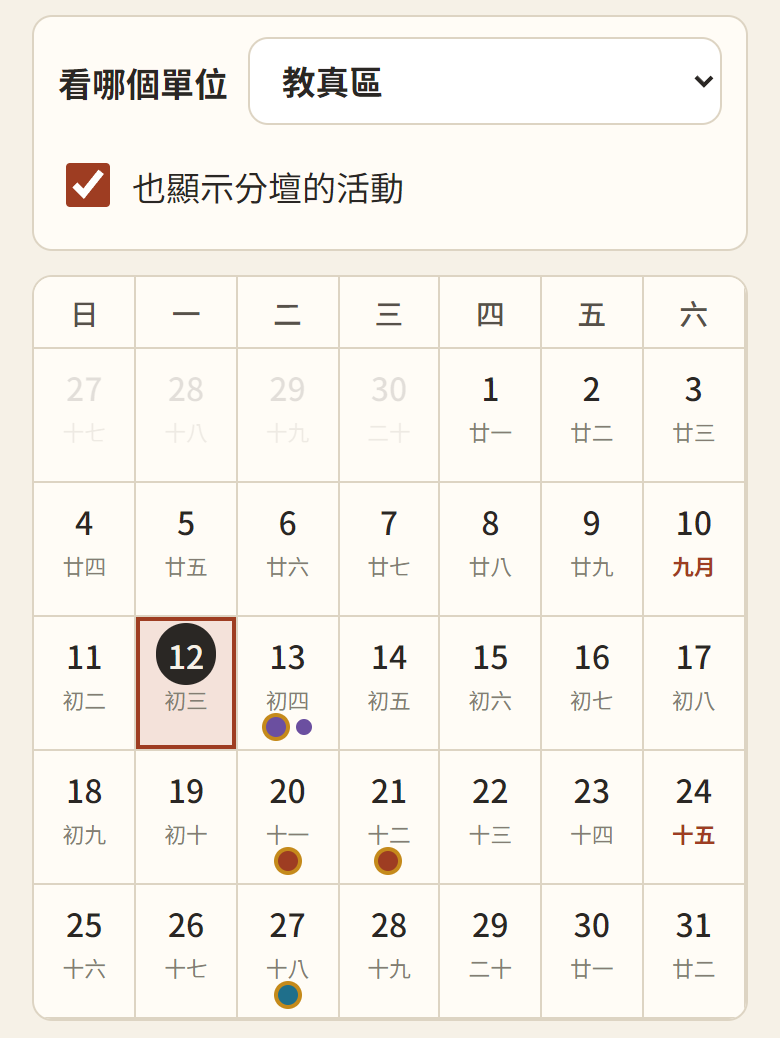
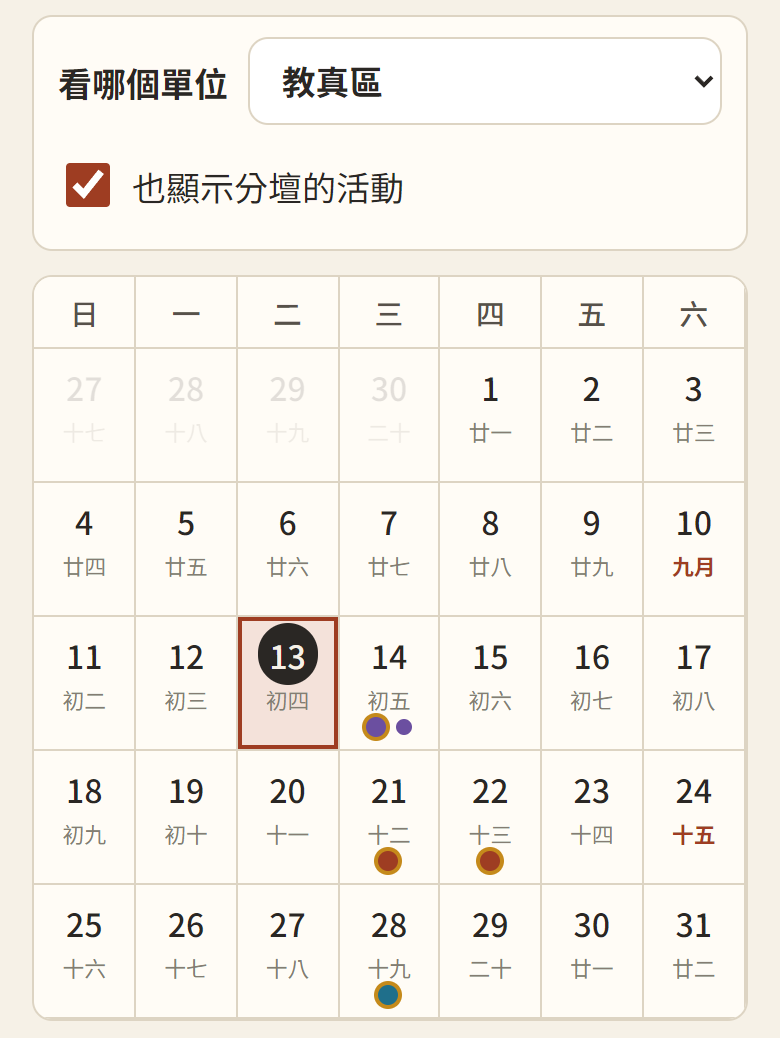
行事曆拿掉「全部」：預設只看分壇的活動，區的活動要選那一區才看得到

diff --git a/js/calendar.js b/js/calendar.js
@@ -1,6 +1,6 @@
 // 行事曆首頁（沿用教全區的看法）：年／月檢視用 FullCalendar，週、近期是自製的直向列表。
 // 格子顯示國曆、農曆與色點（顏色依類別；分壇的活動外面多一圈金框）；點日期在下方列出當天活動卡片。
-// 上方的單位篩選：全部／分壇／某一區；選某一區時可以勾「也顯示分壇的活動」。
+// 上方的單位篩選：分壇（預設，只看分壇的）／某一區；選某一區時可以勾「也顯示分壇的活動」。沒有「全部」。
 (function () {
   'use strict';
 
@@ -19,7 +19,7 @@
     loading: true, // 載入中不顯示舊區間的資料，避免誤判「沒有活動」
     pendingScroll: null, // 年檢視載入完成後要捲到的月份
     showPast: false, // 年檢視是否顯示今年已過的月份（每次開啟預設收起）
-    unit: readKey('unit', '全部'), // 全部／分壇／某一區
+    unit: readKey('unit', window.SITE.fentan), // 分壇／某一區
     withFentan: readKey('with-fentan', '1') !== '0' // 選某一區時，也顯示分壇的活動
   };
   const windows = new Map(); // 年份 → { data, fresh, promise }
@@ -86,9 +86,9 @@
   // ---------- 單位篩選 ----------
 
   function initUnitFilter() {
-    const opts = ['全部', window.SITE.fentan].concat(window.SITE.units);
-    if (opts.indexOf(state.unit) === -1) state.unit = '全部';
-    el.unit.innerHTML = opts.map((u) => `<option value="${Fmt.esc(u)}">${Fmt.esc(u === window.SITE.fentan ? '分壇的活動' : u === '全部' ? '全部（分壇＋16 區）' : u)}</option>`).join('');
+    const opts = [window.SITE.fentan].concat(window.SITE.units);
+    if (opts.indexOf(state.unit) === -1) state.unit = window.SITE.fentan; // 以前選過「全部」的也改成分壇
+    el.unit.innerHTML = opts.map((u) => `<option value="${Fmt.esc(u)}">${Fmt.esc(u === window.SITE.fentan ? '分壇的活動' : u)}</option>`).join('');
     el.unit.value = state.unit;
     el.withFentan.checked = state.withFentan;
     syncWithFentanBox();
@@ -106,11 +106,10 @@
   }
 
   function syncWithFentanBox() {
-    el.withFentanBox.hidden = state.unit === '全部' || state.unit === window.SITE.fentan;
+    el.withFentanBox.hidden = state.unit === window.SITE.fentan;
   }
 
   function passes(ev) {
-    if (state.unit === '全部') return true;
     if (ev.unit === state.unit) return true;
     return state.unit !== window.SITE.fentan && state.withFentan && ev.unit === window.SITE.fentan;
   }
@@ -362,7 +361,7 @@
   function renderSourceStatus(data) {
     const jq = window.SITE.jiaoquan.unit;
     const src = data.sources && data.sources[jq];
-    const relevant = state.unit === '全部' || state.unit === jq;
+    const relevant = state.unit === jq;
     el.source.hidden = !(src && !src.ok && relevant);
     if (!el.source.hidden) el.source.textContent = `${jq}的活動暫時讀不到，稍後會自動再試（其他活動照常顯示）`;
   }

diff --git a/index.html b/index.html
@@ -17,7 +17,7 @@
   <link rel="preconnect" href="https://fonts.googleapis.com">
   <link rel="preconnect" href="https://fonts.gstatic.com" crossorigin>
   <link href="https://fonts.googleapis.com/css2?family=Noto+Sans+TC:wght@400;500;700&family=Noto+Serif+TC:wght@600;700&display=swap" rel="stylesheet">
-  <link rel="stylesheet" href="css/app.css?v=20261013b">
+  <link rel="stylesheet" href="css/app.css?v=20261013c">
   <script>try { var t = localStorage.getItem('fentan-calendar:text-size'); if (t === 'l' || t === 'xl') document.documentElement.classList.add('text-' + t); } catch (e) {}</script>
 </head>
 <body>
@@ -90,15 +90,15 @@
   <script src="https://cdn.jsdelivr.net/npm/fullcalendar@6.1.21/index.global.min.js"></script>
   <script src="https://cdn.jsdelivr.net/npm/@fullcalendar/core@6.1.21/locales/zh-tw.global.min.js"></script>
   <!-- 改了 js、css 後把 ?v= 的日期換新，手機才不會用到舊的檔案（GitHub Pages 會快取 10 分鐘） -->
-  <script src="js/site.js?v=20261013b"></script>
-  <script src="js/config.js?v=20261013b"></script>
-  <script src="js/api.js?v=20261013b"></script>
-  <script src="js/format.js?v=20261013b"></script>
-  <script src="js/lunar-util.js?v=20261013b"></script>
-  <script src="js/calendar.js?v=20261013b"></script>
-  <script src="js/event-page.js?v=20261013b"></script>
-  <script src="js/help.js?v=20261013b"></script>
-  <script src="js/admin.js?v=20261013b"></script>
-  <script src="js/app.js?v=20261013b"></script>
+  <script src="js/site.js?v=20261013c"></script>
+  <script src="js/config.js?v=20261013c"></script>
+  <script src="js/api.js?v=20261013c"></script>
+  <script src="js/format.js?v=20261013c"></script>
+  <script src="js/lunar-util.js?v=20261013c"></script>
+  <script src="js/calendar.js?v=20261013c"></script>
+  <script src="js/event-page.js?v=20261013c"></script>
+  <script src="js/help.js?v=20261013c"></script>
+  <script src="js/admin.js?v=20261013c"></script>
+  <script src="js/app.js?v=20261013c"></script>
 </body>
 </html>

diff --git a/tools/help-shots.js b/tools/help-shots.js
@@ -75,7 +75,7 @@ const SHOTS = [
       const s = document.getElementById('unit-filter'); s.value = '教真區'; s.dispatchEvent(new Event('change')); await __wait(500);`,
     clip: `return __box('#unit-bar', '#fc');` },
   { name: 'month', hash: '#/', js: `
-      const s = document.getElementById('unit-filter'); s.value = '全部'; s.dispatchEvent(new Event('change'));
+      const s = document.getElementById('unit-filter'); s.value = '教真區'; s.dispatchEvent(new Event('change'));
       document.querySelector('[data-view=month]').click(); await __wait(500);`,
     tap: () => 'document.querySelector(".fc-daygrid-day .cell-dots").closest(".fc-daygrid-day")',
     clip: `return __box('#fc', '#day-panel');` },

diff --git a/docs/spec.md b/docs/spec.md
@@ -149,8 +149,10 @@ Durable Object 的 SQLite：
    - 年：12 個月，點日期跳到那個月；今年已過的月份預設收起。
    - 週：七天直向列出。
    - 近期：今天起一個月有活動的日子依序列出。
-2. **單位篩選**（行事曆上方，記住選擇）：下拉選單「全部／分壇／教真區⋯教理區」。
+2. **單位篩選**（行事曆上方，記住選擇）：下拉選單「分壇的活動／教真區⋯教理區」，**預設「分壇的活動」**。
+   - 選「分壇的活動」只看分壇的，看不到各區的（2026/10/13：沒有「全部」這個選項，分壇不需要看到各區的活動）。
    - 選某一區時，下面多一個勾選「也顯示分壇的活動」（預設勾，符合「家人看分壇＋自己區」）。
+   - 以前選過「全部」的手機，自動改成「分壇的活動」。
 3. **色點與標籤**：色點顏色依類別（勤務赭紅、道務紫、教育藍綠）；分壇的活動色點外面多一圈金色框。卡片標題上方有「單位」標籤（分壇是金底，各區是灰底）＋類別標籤。
 4. **活動詳情**（`#/event/<id>?date=yyyy-MM-dd`）：單位、類別、名稱、日期（含農曆）、時間、地點、服裝（教全區才有）、說明、相關連結。教全區的活動有大按鈕「到教全區報名」（另開分頁）。
 5. **常見問題**（`#/help`）：怎麼看、怎麼篩選、怎麼加到手機主畫面、活動資料從哪裡來、怎麼報名。
